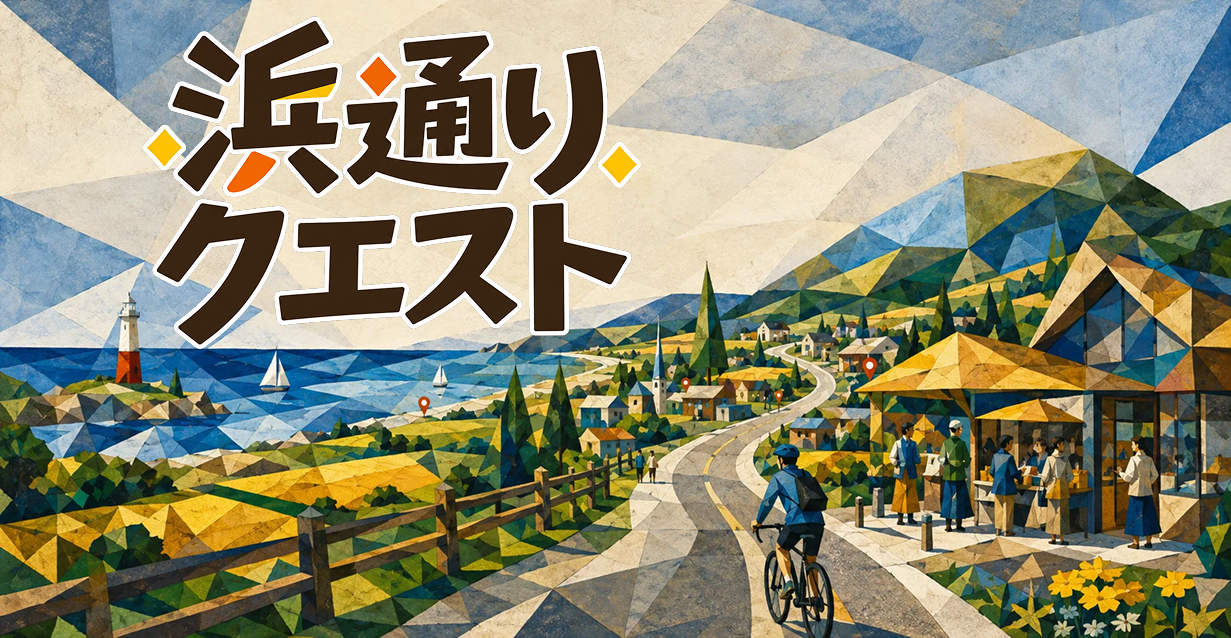
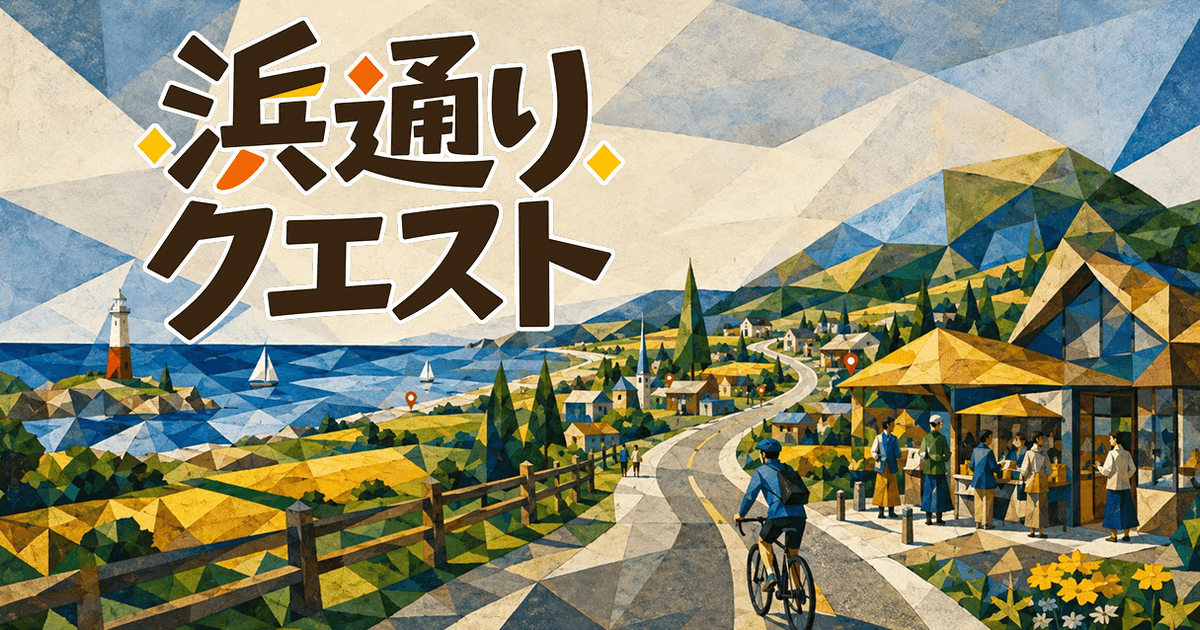
本番デプロイ手順メモの更新、共通OGP画像の軽量化、未使用SVGの削除
デプロイして判明した食い違いを手順メモに反映する。scopeが relu-branch
であること、--prod だけでは本番エイリアスに昇格しない場合があること、
実行リージョンの指定、Basic認証が外れていること。

あわせて ogp-default.png を 1231×638 / 1.6MB から 1200×630 / 396KB に
軽量化し（OGPの標準サイズ）、hero.webp への統合で未使用になっていた
hero-people.svg を削除する。

Claude-Session: https://claude.ai/code/session_01TAqkzqv5L4nHCoyWfxHsG4

diff --git a/src/features/dev-tools/constants/image-assets.ts b/src/features/dev-tools/constants/image-assets.ts
@@ -91,9 +91,9 @@ export const IMAGE_ASSETS: ImageAssetEntry[] = [
     path: "/img/ogp-default.png",
     label: "OGP画像（既定）",
     group: "brand",
-    status: "replace",
+    status: "keep",
     usedIn: ["SNSでURLを共有したときのサムネイル（全ページ共通）"],
-    note: "1200×630。派生元のまま。X・LINEに貼ったときに最初に見られる画像なので優先度が高い。",
+    note: "1200×630。浜通りクエストの風景イラストに差し替え済み。",
   },
 
   // ── トップページ ──────────────────────────────────────
@@ -112,14 +112,6 @@ export const IMAGE_ASSETS: ImageAssetEntry[] = [
     status: "keep",
     usedIn: ["クエスト詳細・達成報告のOGPを動的生成するときの背景"],
     note: "トップのヒーローは hero.webp に置き換わったが、OGPの背景として使っている。青緑 #30bca7 が72箇所に焼き込まれた派生元のイラスト。",
-  },
-  {
-    path: "/img/hero-people.svg",
-    label: "ヒーローの人物イラスト（旧）",
-    group: "top",
-    status: "replace",
-    usedIn: [],
-    note: "#30bca7 / #0f8472 / #bcecd3 が焼き込まれている。hero.webp に置き換えたため未使用。",
   },
 
   // ── オンボーディング ──────────────────────────────────

diff --git a/src/lib/utils/metadata.ts b/src/lib/utils/metadata.ts
@@ -16,7 +16,7 @@ export const config = {
   title: "浜通りクエスト",
   description:
     "政治活動をもっと身近に。楽しく政治参加に取り組める、浜通りクエスト。",
-  defaultImage: "/img/ogp-default.png?v=20250714",
+  defaultImage: "/img/ogp-default.png?v=20260919",
   icons: {
     icon: [
       { url: "/favicon.ico", sizes: "any" },

diff --git a/docs/20260913_1618_本番デプロイ手順メモ.md b/docs/20260913_1618_本番デプロイ手順メモ.md
@@ -10,7 +10,9 @@
 
 ## フロントエンド（Vercel）
 
-- Vercelプロジェクト: `yuugouohnos-projects/hamadori-quest`（本番URL: https://hamadori-quest.vercel.app）
+- Vercelプロジェクト: **`relu-branch/hamadori-quest`**（本番URL: https://hamadori-quest.vercel.app）
+  - 2026-09-19時点で `yuugouohnos-projects` にこのプロジェクトは無い。scope を間違える／省略すると
+    `Not authorized` で落ちる（エラーメッセージからは権限不足に見えるが、実際は別チームを見ている）
 - **Gitリポジトリとの連携（Vercelの自動デプロイ）は行っていない**（`vercel.json` で `main`/`develop` 両方
   `deploymentEnabled: false` にしてあるのに整合）。デプロイは常にCLIから手動実行。
 - 本番用の環境変数（`NEXT_PUBLIC_SUPABASE_URL`, `SUPABASE_SERVICE_ROLE_KEY`, `BASIC_AUTH_USER/PASSWORD` 等）
@@ -20,19 +22,38 @@
 
 ```bash
 # 初回のみ: このディレクトリをVercelプロジェクトに紐付ける
-npx vercel link --yes --project hamadori-quest --scope yuugouohnos-projects
+npx vercel link --yes --project hamadori-quest --scope relu-branch
 
-# 本番デプロイ（developの内容を反映したいときは、事前にそのブランチ/コミットをcheckoutしてから実行）
-npx vercel --prod --yes
+# 本番デプロイ（mainの内容を出す。事前に該当ブランチ/コミットをcheckoutしておく）
+npx vercel --prod --yes --scope relu-branch
+
+# デプロイしただけでは本番URLに反映されないことがある。
+# hamadori-quest.vercel.app が古いままなら昇格させる
+npx vercel promote <デプロイURL> --scope relu-branch
 ```
+
+- `.vercel/project.json` の `orgId` が古いチームのままだと、`--scope` を付けても失敗することがある。
+  その場合は `npx vercel link` をやり直す。
+- **`--prod` は「本番ターゲットのデプロイを作る」だけで、本番エイリアスへの昇格が自動とは限らない。**
+  デプロイ後に `curl` で本番URLを叩き、新しいコードが出ているか必ず確認すること
+  （2026-09-18のデプロイでは、`--prod` 後も `hamadori-quest.vercel.app` が旧コードを返し続け、
+  `vercel promote` で初めて切り替わった。次のデプロイでは自動で昇格していたので挙動は一定しない）。
 
 - `vercel link` を実行すると `.vercel/`（プロジェクト紐付け情報）と `.env.local`（`VERCEL_OIDC_TOKEN`）が
   生成される。どちらもgitignore対象（`.vercel` は元から、`.env.local` は既存の `.env*.local` ルールで対象）。
   **`vercel link` はなぜか `.gitignore` に `.env*` という行を追記することがある**（既存の
   「`.env*.local` に絞っている」という意図を上書きしてしまう）。実行後は `git diff .gitignore` を確認し、
   意図しない追記があれば `git checkout -- .gitignore` で戻すこと。
-- サイト全体に公開前のBasic認証がかかっている（`BASIC_AUTH_USER`/`BASIC_AUTH_PASSWORD`、Vercel側で設定）。
-  デプロイ自体が成功していれば `curl` では401が返るのが正常。
+- 公開前はサイト全体にBasic認証をかけていた（`BASIC_AUTH_USER`/`BASIC_AUTH_PASSWORD`、Vercel側で設定）。
+  2026-09-19時点では外れており、`curl` で 200 が返る。401が返る場合はBasic認証が有効なだけで、
+  デプロイ自体は成功している。
+
+### 実行リージョン
+
+- `vercel.json` で `"regions": ["hnd1"]`（東京）を指定している。**外すとデフォルトの iad1（米バージニア）に戻る。**
+- 本番Supabaseは `ap-northeast-1`（東京）なので、関数が米国だとDBとの往復ごとに150〜200ms余計にかかる。
+  実測で `/`（DBを引くページ）が 1.34s → 0.27s、`/sign-in` が 1.02s → 0.17s になった（2026-09-19）。
+- 実行場所はレスポンスヘッダ `x-vercel-id` の2つ目で分かる（`hnd1::hnd1::…` なら東京実行）。
 
 ## データベース（Supabase本番）
 
